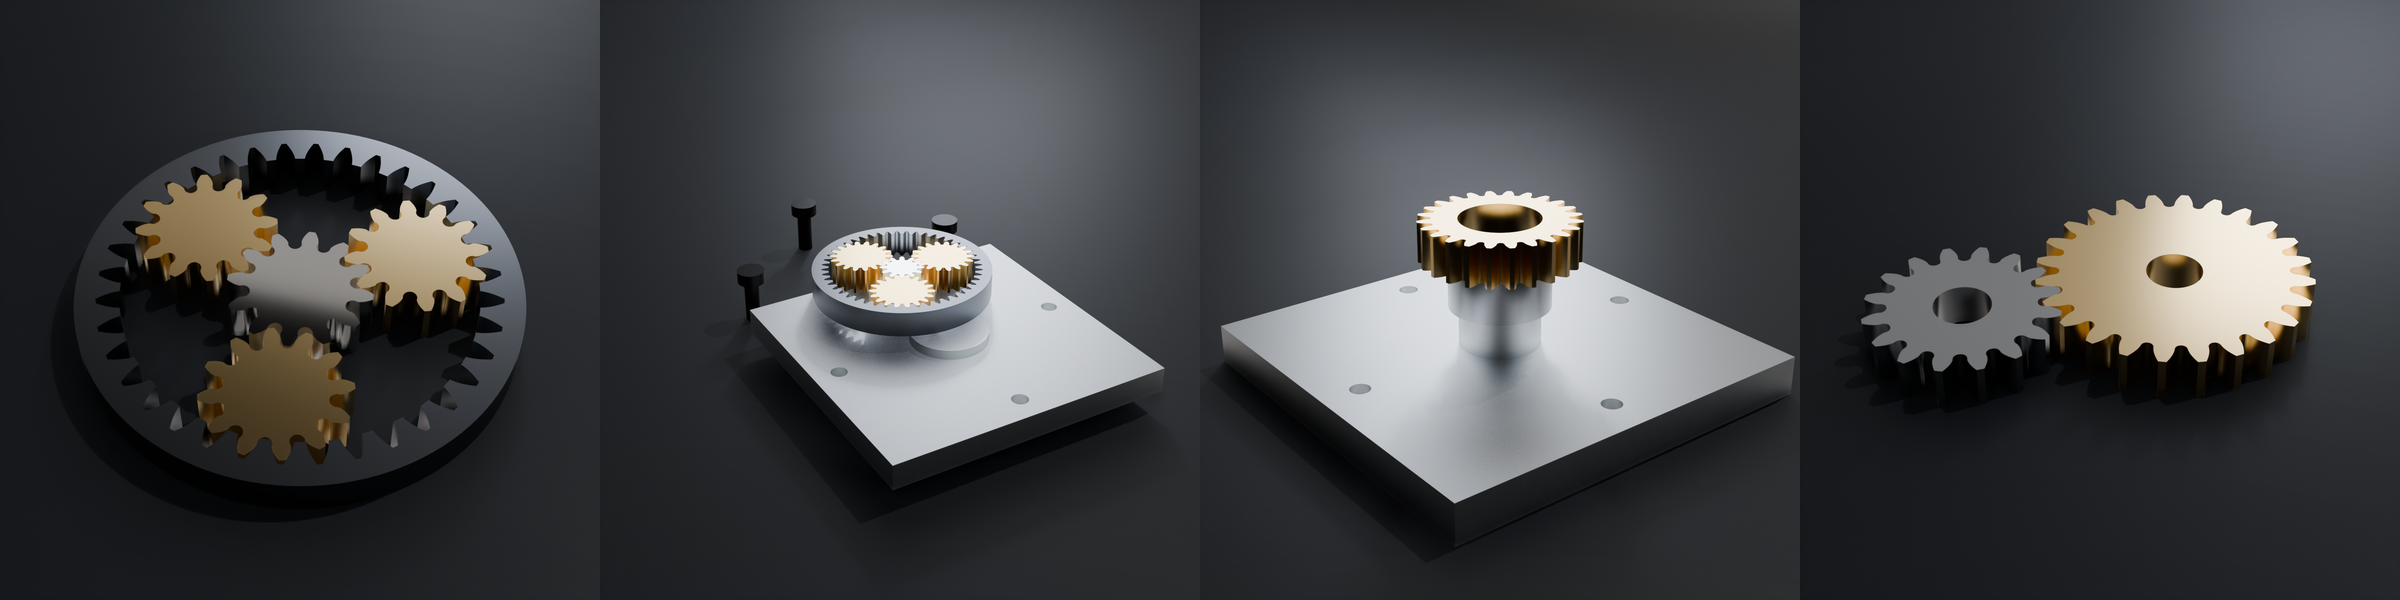
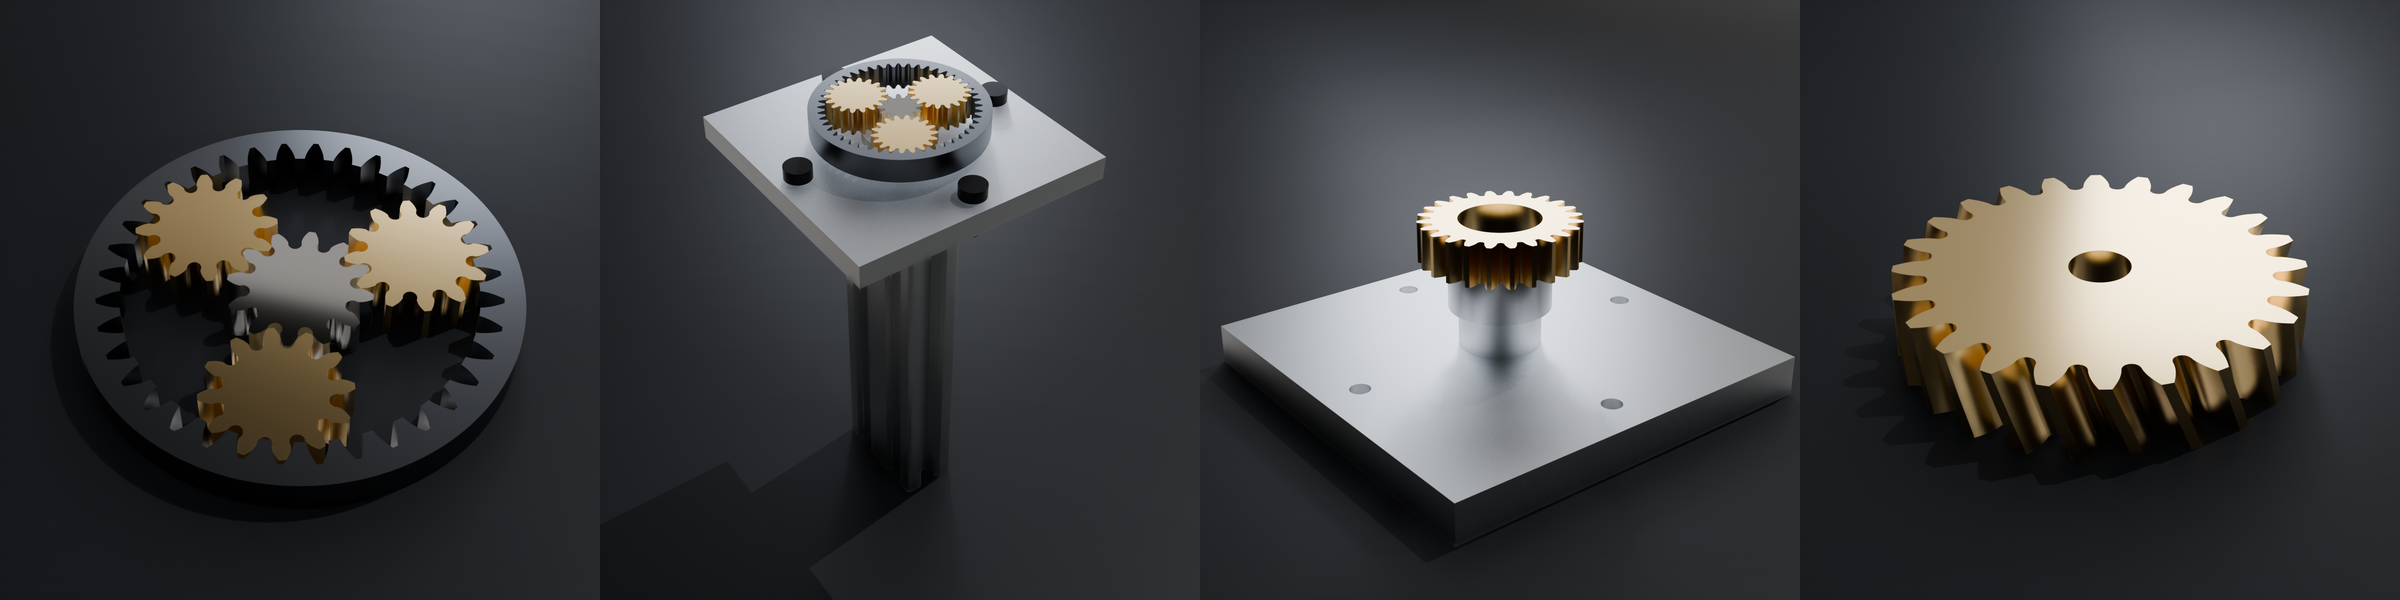
Gallery: stronger picks (gearbox on V-slot column, helical gear, stepper, bracket on extrusion)
Hero and gallery no longer repeat images; drops the weaker exploded, shaft/housing and
four-bar shots.

Changed region(s): [[0.2812, 0.06, 0.5, 0.81], [0.7812, 0.0, 0.9688, 0.81], [0.9375, 0.0, 1.0, 0.24]]

diff --git a/README.md b/README.md
@@ -3,7 +3,7 @@
 **Describe a mechanism in plain English. Get exact, manufacturable CAD back: STEP files, real B-rep geometry,
 not a mesh an AI guessed at.**
 
-![Assemblies built by constraint-kit: a planetary gearset, an exploded gearbox, a plate with a gear seated on its boss, a meshing gear pair](docs/images/hero.png)
+![Assemblies built by constraint-kit: a planetary gearset, a gearbox mounted on a V-slot column, a gear seated on a plate boss, a helical gear](docs/images/hero.png)
 
 ```text
 "a plate with a spacer and a 24-tooth gear stacked on its boss"
@@ -43,10 +43,10 @@ an error path.
 
 | | | |
 |:-:|:-:|:-:|
-| ![Planetary gearset](docs/images/planetary.png) | ![Exploded gearbox](docs/images/gearbox_exploded.png) | ![Assembled gearbox](docs/images/gearbox_assembled.png) |
-| Planetary gearset: sun, three planets, ring | Gearbox, exploded view | Same gearbox, assembled |
-| ![Meshing spur gears](docs/images/gear_pair.png) | ![Gear on a shaft through a housing](docs/images/shaft_housing.png) | ![Four-bar linkage](docs/images/four_bar.png) |
-| Spur pair at the exact center distance | Gear on a shaft through a housing | Four-bar linkage |
+| ![Planetary gearbox bolted to a plate](docs/images/gearbox_assembled.png) | ![Meshing spur gears](docs/images/gear_pair.png) | ![NEMA stepper motor](docs/images/stepper_motor.png) |
+| Planetary gearbox: ring, sun and three planets, screwed to a plate | Spur pair at the exact center distance | NEMA stepper, a BOSL2 library "vitamin" |
+| ![Angle bracket on V-slot extrusion](docs/images/bracket_rail.png) | ![Gear bolted to a plate](docs/images/fastened.png) | ![Larger planetary gearset](docs/images/planetary_large.png) |
+| Angle bracket bolted to a V-slot 2020 extrusion | Gear seated on a plate, four bolts through it | A second planetary gearset, larger planets |
 
 Every image above is a real build, rendered in Blender straight from the GLB that constraint-kit exported. The geometry is untouched; only materials and lighting were added. The development pipeline has built more than
 1,400 verified assemblies.
